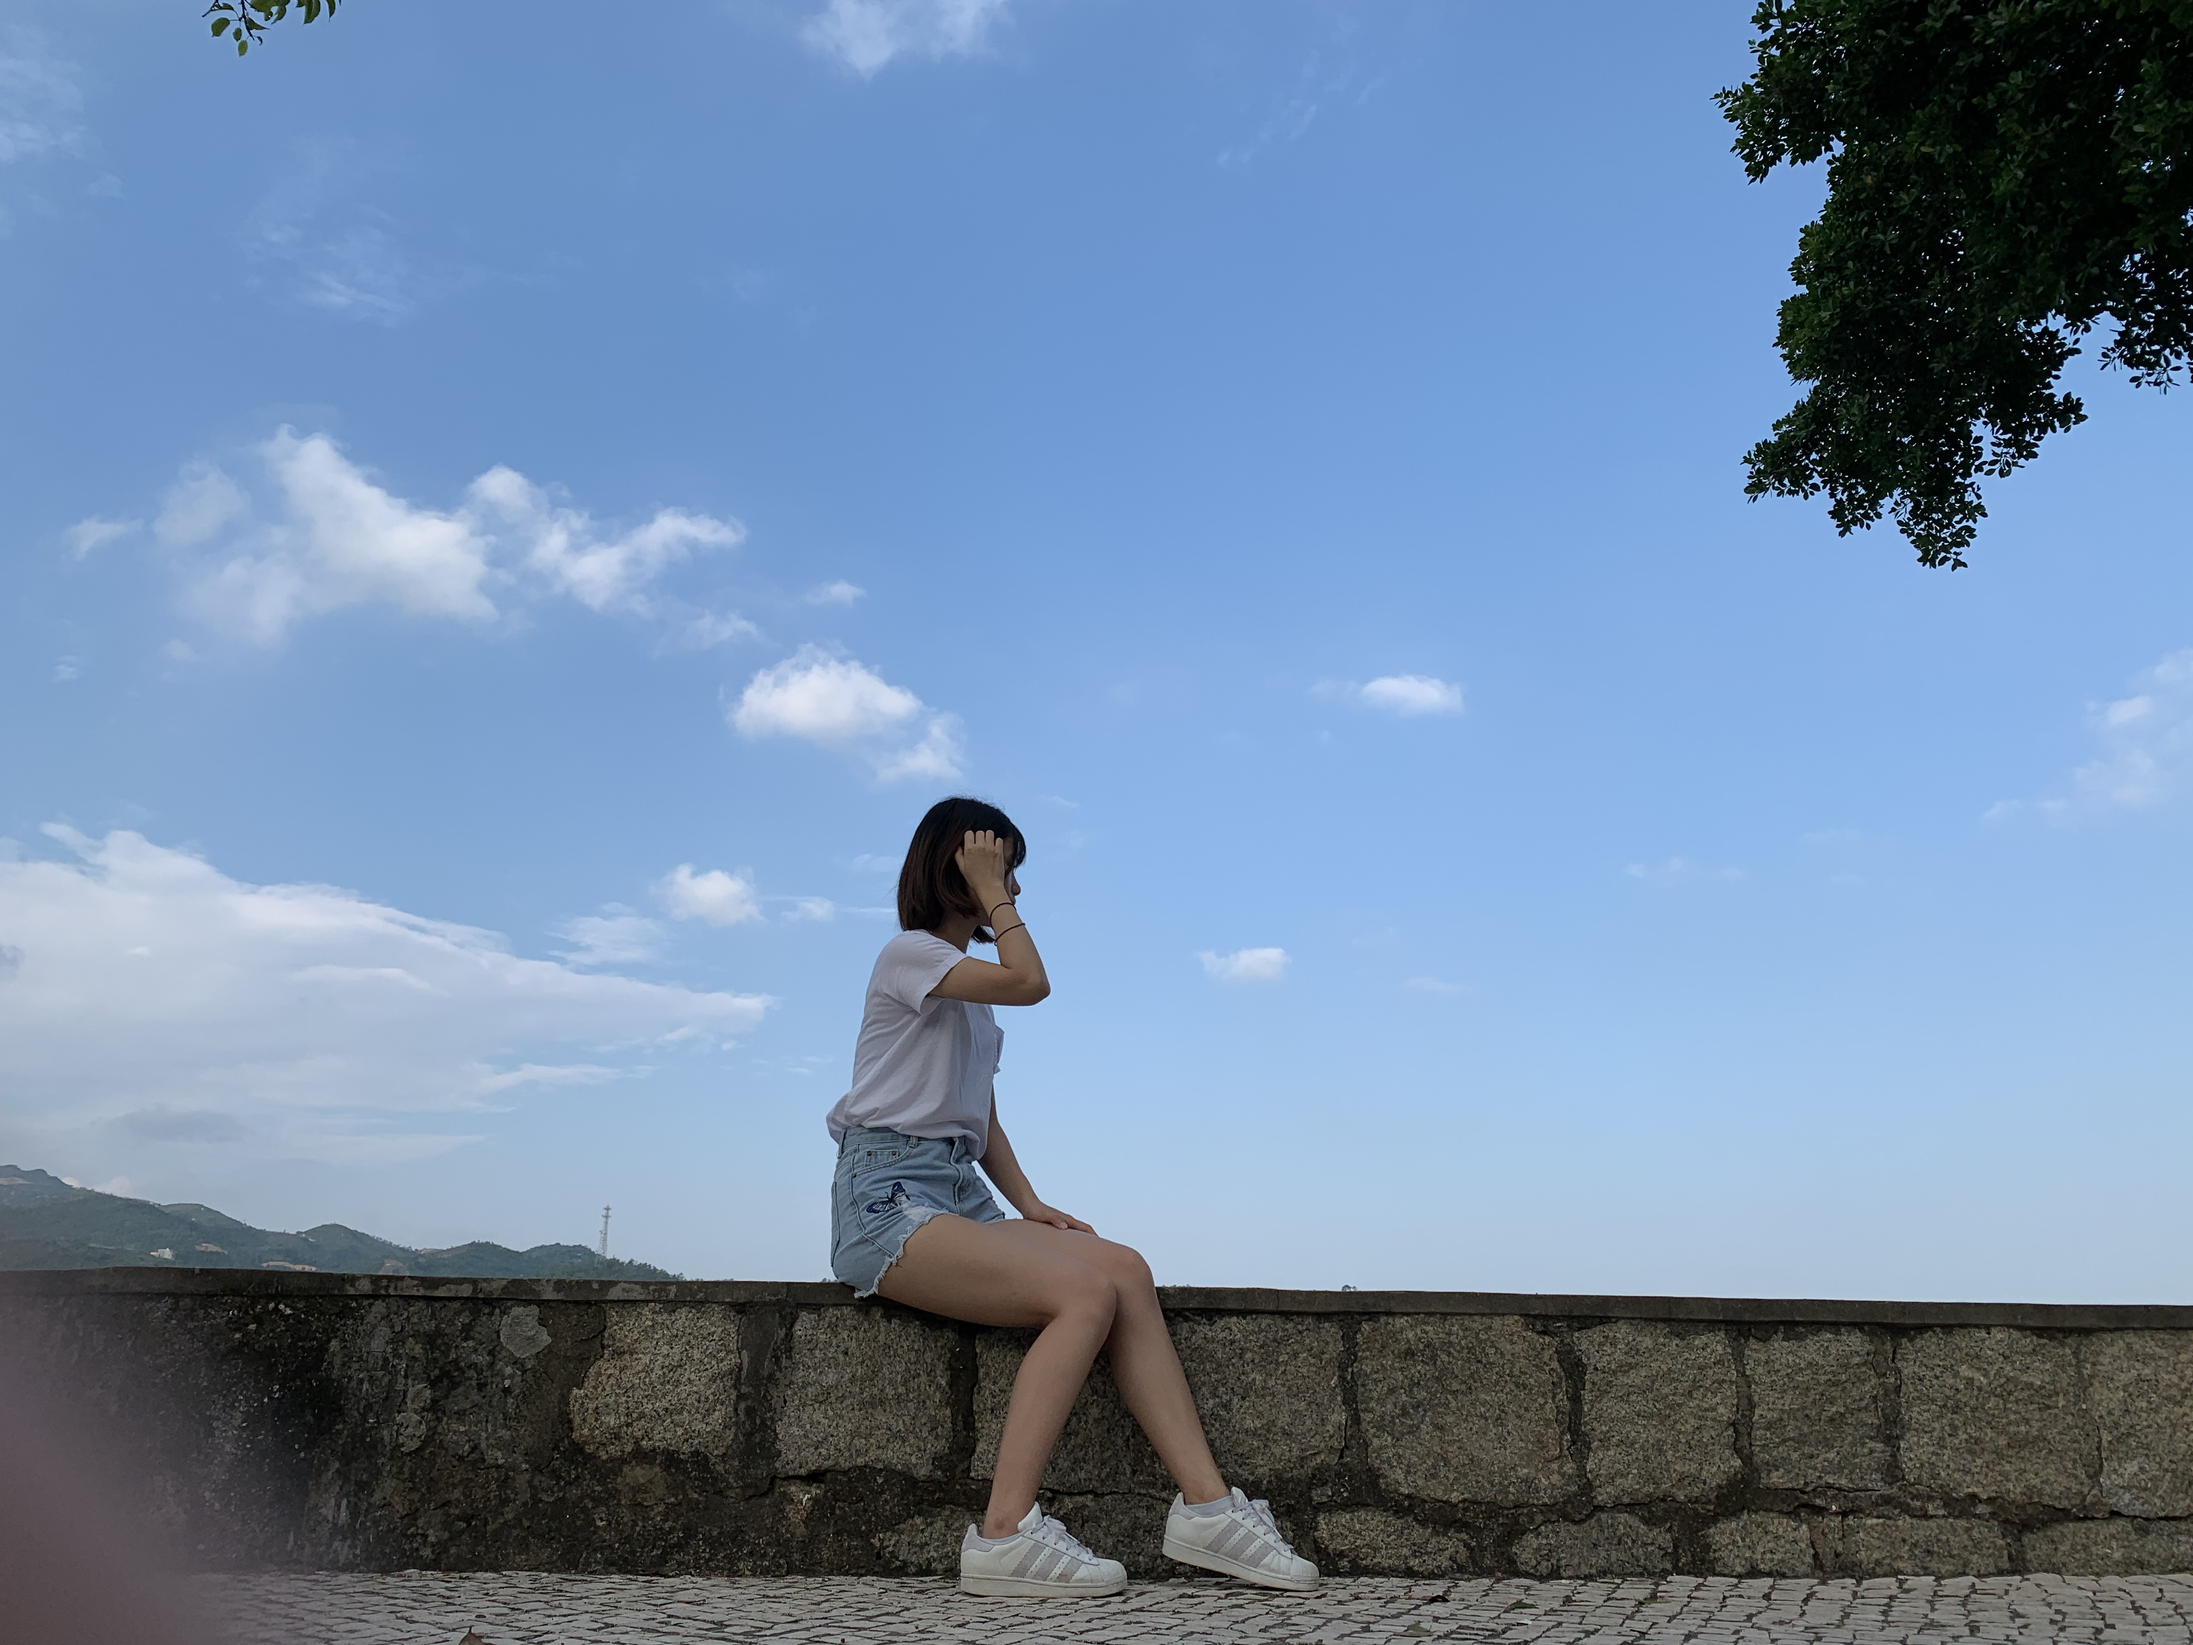
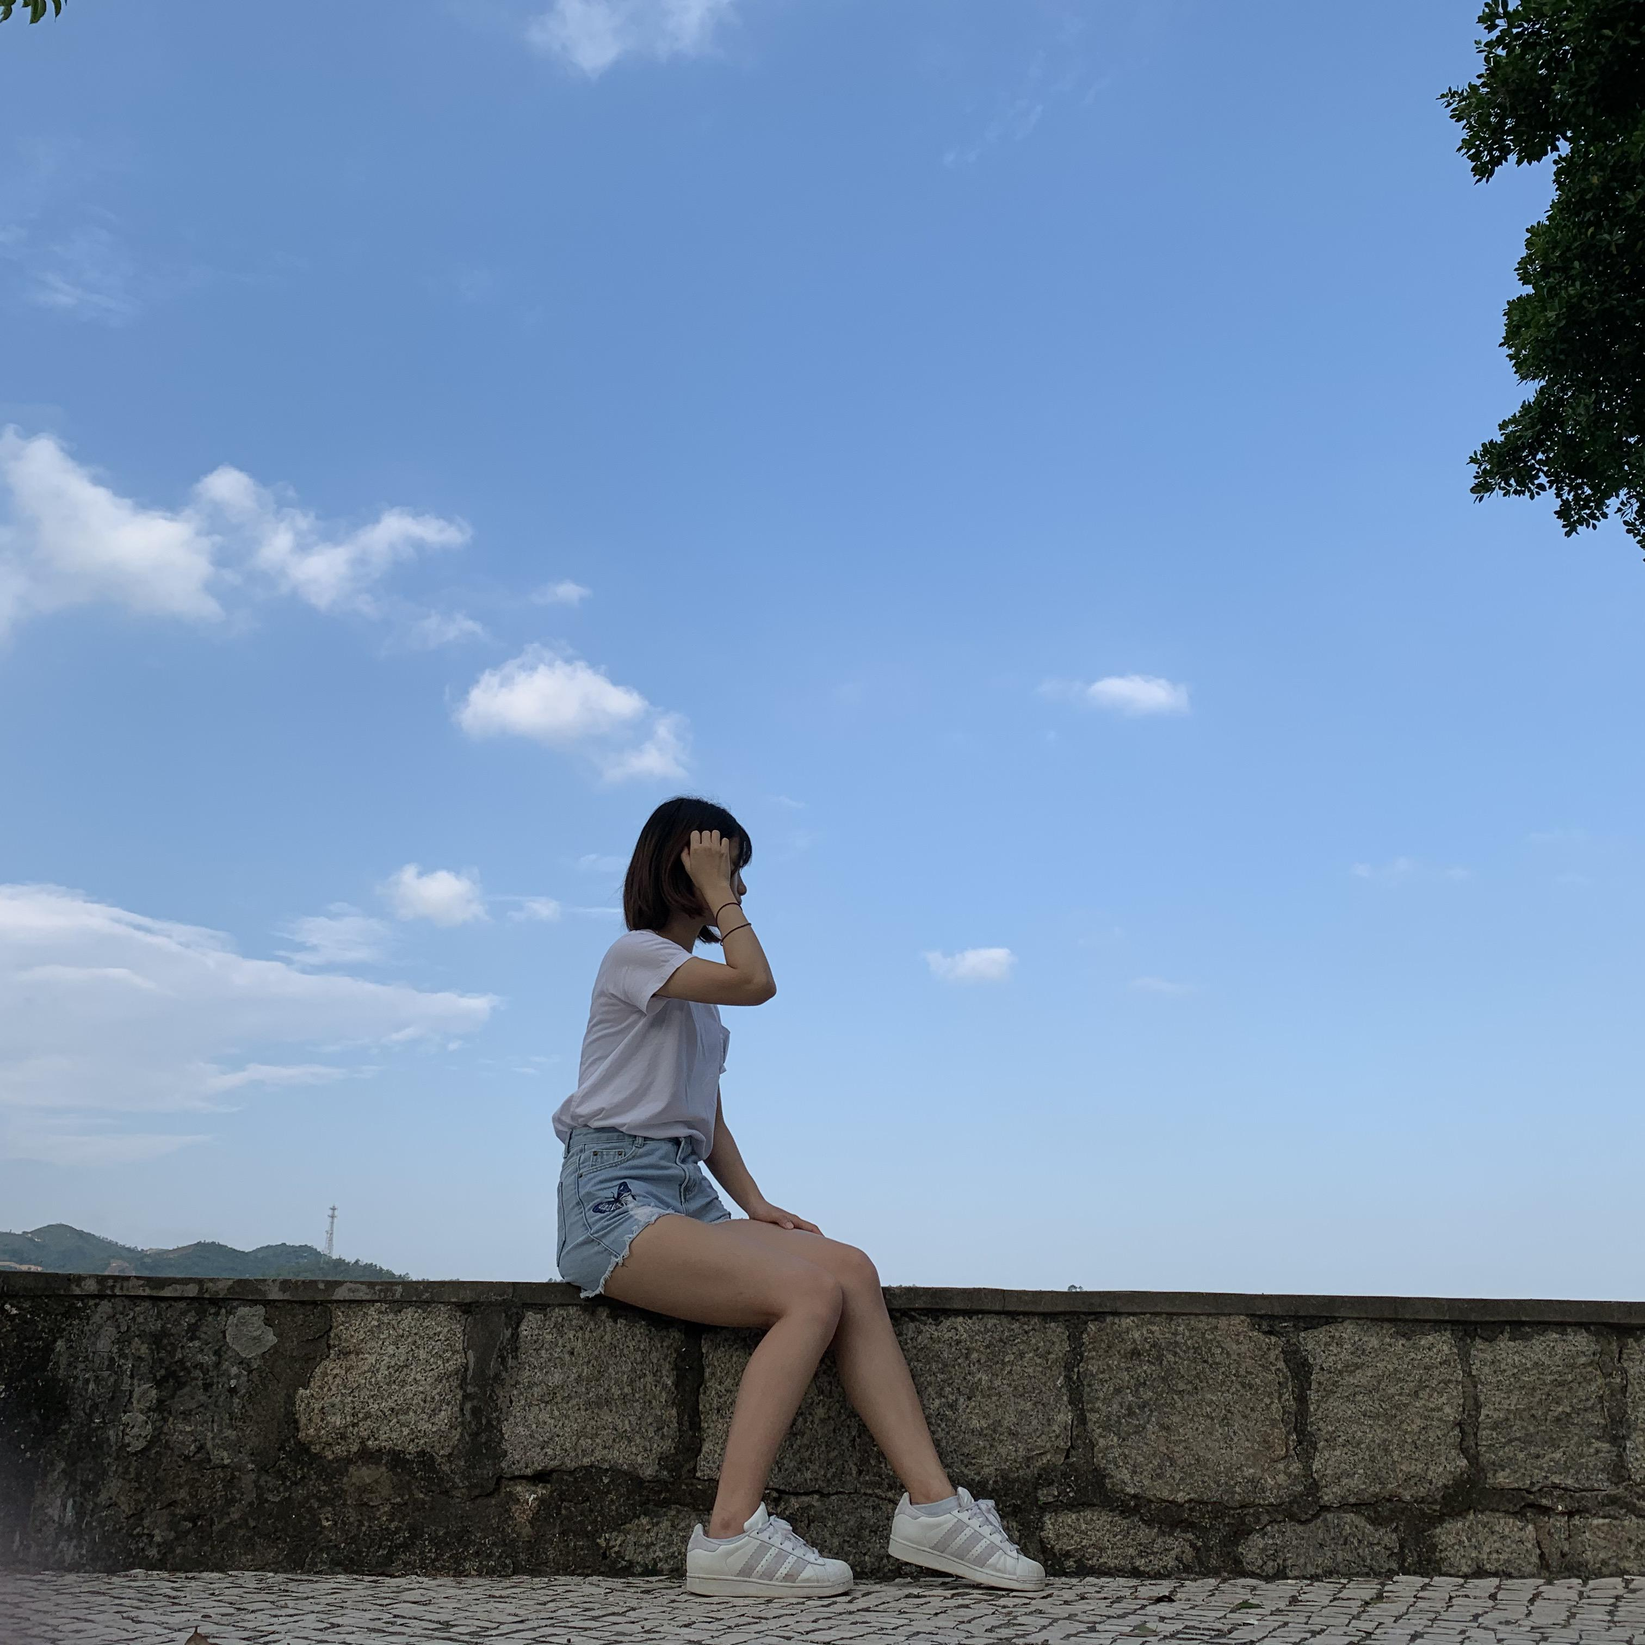
add photos

diff --git a/tools.py b/tools.py
@@ -1,0 +1,176 @@
+#coding: utf-8
+from PIL import Image
+import os
+import sys
+import json
+from datetime import datetime
+from Imageprocessing import Graphics
+
+# 定义压缩比，数值越大，压缩越小
+SIZE_normal = 1.0
+SIZE_small = 1.5
+SIZE_more_small = 2.0
+SIZE_more_small_small = 3.0
+
+
+def make_directory(directory):
+    """创建目录"""
+    os.makedirs(directory)
+
+def directory_exists(directory):
+    """判断目录是否存在"""
+    if os.path.exists(directory):
+        return True
+    else:
+        return False
+
+def list_img_file(directory):
+    """列出目录下所有文件，并筛选出图片文件列表返回"""
+    old_list = os.listdir(directory)
+    # print old_list
+    new_list = []
+    for filename in old_list:
+        name, fileformat = filename.split(".")
+        if fileformat.lower() == "jpg" or fileformat.lower() == "png" or fileformat.lower() == "gif":
+            new_list.append(filename)
+    # print new_list
+    return new_list
+
+
+def print_help():
+    print("""
+    This program helps compress many image files
+    you can choose which scale you want to compress your img(jpg/png/etc)
+    1) normal compress(4M to 1M around)
+    2) small compress(4M to 500K around)
+    3) smaller compress(4M to 300K around)
+    """)
+
+def compress(choose, des_dir, src_dir, file_list):
+    """压缩算法，img.thumbnail对图片进行压缩，
+    
+    参数
+    -----------
+    choose: str
+            选择压缩的比例，有4个选项，越大压缩后的图片越小
+    """
+    if choose == '1':
+        scale = SIZE_normal
+    if choose == '2':
+        scale = SIZE_small
+    if choose == '3':
+        scale = SIZE_more_small
+    if choose == '4':
+        scale = SIZE_more_small_small
+    for infile in file_list:
+        img = Image.open(src_dir+infile)
+        # size_of_file = os.path.getsize(infile)
+        w, h = img.size
+        img.thumbnail((int(w/scale), int(h/scale)))
+        img.save(des_dir + infile)
+def compress_photo():
+    '''调用压缩图片的函数
+    '''
+    src_dir, des_dir = "photos/", "min_photos/"
+    
+    if directory_exists(src_dir):
+        if not directory_exists(src_dir):
+            make_directory(src_dir)
+        # business logic
+        file_list_src = list_img_file(src_dir)
+    if directory_exists(des_dir):
+        if not directory_exists(des_dir):
+            make_directory(des_dir)
+        file_list_des = list_img_file(des_dir)
+        # print file_list
+    '''如果已经压缩了，就不再压缩'''
+    for i in range(len(file_list_des)):
+        if file_list_des[i] in file_list_src:
+            file_list_src.remove(file_list_des[i])
+    compress('4', des_dir, src_dir, file_list_src)
+
+
+def handle_photo():
+    '''根据图片的文件名处理成需要的json格式的数据
+    
+    -----------
+    最后将data.json文件存到博客的source/photos文件夹下
+    '''
+    src_dir, des_dir = "photos/", "min_photos/"
+    file_list = list_img_file(src_dir)
+    list_info = []
+    for i in range(len(file_list)):
+        filename = file_list[i]
+        date_str, *info = filename.split("_")
+        info='_'.join(info)
+        info, _ = info.split(".")
+        date = datetime.strptime(date_str, "%Y-%m-%d")
+        year_month = date_str[0:7]            
+        if i == 0:  # 处理第一个文件
+            new_dict = {"date": year_month, "arr":{'year': date.year,
+                                                                   'month': date.month,
+                                                                   'link': [filename],
+                                                                   'text': [info],
+                                                                   'type': ['image']
+                                                                   }
+                                        } 
+            list_info.append(new_dict)
+        elif year_month != list_info[-1]['date']:  # 不是最后的一个日期，就新建一个dict
+            new_dict = {"date": year_month, "arr":{'year': date.year,
+                                                   'month': date.month,
+                                                   'link': [filename],
+                                                   'text': [info],
+                                                   'type': ['image']
+                                                   }
+                        }
+            list_info.append(new_dict)
+        else:  # 同一个日期
+            list_info[-1]['arr']['link'].append(filename)
+            list_info[-1]['arr']['text'].append(info)
+            list_info[-1]['arr']['type'].append('image')
+    list_info.reverse()  # 翻转
+    final_dict = {"list": list_info}
+    with open("E://YourBlog/themes/next/source/lib/album/data.json","w") as fp:
+        json.dump(final_dict, fp)
+def cut_photo():
+    """裁剪算法
+    
+    ----------
+    调用Graphics类中的裁剪算法，将src_dir目录下的文件进行裁剪（裁剪成正方形）
+    """
+    src_dir = "photos/"
+    if directory_exists(src_dir):
+        if not directory_exists(src_dir):
+            make_directory(src_dir)
+        # business logic
+        file_list = list_img_file(src_dir)
+        # print file_list
+        if file_list:
+            print_help()
+            for infile in file_list:
+                img = Image.open(src_dir+infile)
+                Graphics(infile=src_dir+infile, outfile=src_dir + infile).cut_by_ratio()            
+        else:
+            pass
+    else:
+        print("source directory not exist!")     
+
+
+
+def git_operation():
+    
+    os.system('git add --all')
+    os.system('git commit -m "add photos"')
+    os.system('git push origin master')
+
+# if __name__ == "__main__":
+#     cut_photo()        # 裁剪图片，裁剪成正方形，去中间部分
+#     compress_photo()   # 压缩图片，并保存到mini_photos文件夹下
+#     git_operation()    # 提交到github仓库
+#     handle_photo()     # 将文件处理成json格式，存到博客仓库中
+cut_photo()        # 裁剪图片，裁剪成正方形，去中间部分
+compress_photo()   # 压缩图片，并保存到mini_photos文件夹下
+git_operation()    # 提交到github仓库
+handle_photo()     # 将文件处理成json格式，存到博客仓库中   
+    
+    

diff --git a/Imageprocessing.py b/Imageprocessing.py
@@ -1,0 +1,80 @@
+# coding=utf-8  
+from PIL import Image  
+import shutil  
+import os  
+
+class Graphics:  
+    '''图片处理类
+    
+    参数
+    -------
+    infile: 输入文件路径
+    outfile: 输出文件路径
+    '''
+    def __init__(self, infile, outfile):
+        self.infile = infile
+        self.outfile = outfile
+
+    def fixed_size(self, width, height):  
+        """按照固定尺寸处理图片"""  
+        im = Image.open(self.infile)  
+        out = im.resize((width, height),Image.ANTIALIAS)  
+        out.save(self.outfile)  
+
+
+    def resize_by_width(self, w_divide_h):  
+        """按照宽度进行所需比例缩放"""  
+        im = Image.open(self.infile)  
+        (x, y) = im.size   
+        x_s = x  
+        y_s = x/w_divide_h  
+        out = im.resize((x_s, y_s), Image.ANTIALIAS)   
+        out.save(self.outfile)  
+
+
+    def resize_by_height(self, w_divide_h):  
+        """按照高度进行所需比例缩放"""  
+        im = Image.open(self.infile)  
+        (x, y) = im.size   
+        x_s = y*w_divide_h  
+        y_s = y  
+        out = im.resize((x_s, y_s), Image.ANTIALIAS)   
+        out.save(self.outfile)  
+
+
+    def resize_by_size(self, size):  
+        """按照生成图片文件大小进行处理(单位KB)"""  
+        size *= 1024  
+        im = Image.open(self.infile)  
+        size_tmp = os.path.getsize(self.infile)  
+        q = 100  
+        while size_tmp > size and q > 0:  
+            print (q)  
+            out = im.resize(im.size, Image.ANTIALIAS)  
+            out.save(self.outfile, quality=q)  
+            size_tmp = os.path.getsize(self.outfile)  
+            q -= 5  
+        if q == 100:  
+            shutil.copy(self.infile, self.outfile)  
+
+  
+    def cut_by_ratio(self):  
+        """按照图片长宽进行分割
+        
+        ------------
+        取中间的部分，裁剪成正方形
+        """  
+        im = Image.open(self.infile)  
+        (x, y) = im.size  
+        if x > y:  
+            region = (int(x/2-y/2), 0, int(x/2+y/2), y)  
+            #裁切图片  
+            crop_img = im.crop(region)  
+            #保存裁切后的图片  
+            crop_img.save(self.outfile)             
+        elif x < y:  
+            region = (0, int(y/2-x/2), x, int(y/2+x/2))
+            #裁切图片  
+            crop_img = im.crop(region)  
+            #保存裁切后的图片  
+            crop_img.save(self.outfile)             
